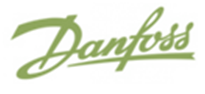
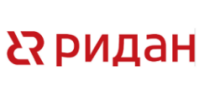
image changed

diff --git a/application/views/templates/base.html b/application/views/templates/base.html
@@ -7,7 +7,7 @@
 <script src="{{ url_for('complaint.static', filename='complaint/js/jquery-3.6.1.min.js/') }}"></script>
 <script src="{{ url_for('complaint.static', filename='complaint/js/jquery-ui.min.js/') }}"></script>
 
-  <div align="right" style="font-family:courier;">Система регистрации рекламаций v4.0.0 Jino
+  <div align="right" style="font-family:courier;">Система регистрации рекламаций v4.0.1 Jino
 <font color="blue">User: {{user_name | capitalize}} <a href="{{url_for('login_logout.logout')}}">LOGOUT</a></font>
 </div>
  </head>

diff --git a/README.md b/README.md
@@ -46,3 +46,5 @@ Flask, Docker, PostgreSQL
 3.3.5 - Добавлена галочка транспортные часы при распознавании актов
 
 4.0.0 - Основная программа не в docker, postgress - остался в docker
+
+4.0.1 - Логотип на актах изменился
